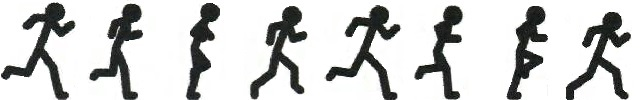
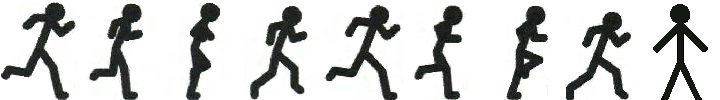
UI Upgrade, player move, jump, attack in process.

diff --git a/game/core/src/Sprites/stickman.java b/game/core/src/Sprites/stickman.java
@@ -1,0 +1,132 @@
+package Sprites;
+
+import com.badlogic.gdx.graphics.g2d.Animation;
+import com.badlogic.gdx.graphics.g2d.Sprite;
+import com.badlogic.gdx.graphics.g2d.TextureRegion;
+import com.badlogic.gdx.math.Vector2;
+import com.badlogic.gdx.physics.box2d.*;
+import com.badlogic.gdx.utils.Array;
+import com.mygdx.dungeoncoder.screens.TaskOne;
+import com.mygdx.dungeoncoder.screens.TaskThree;
+import com.mygdx.dungeoncoder.values.DefaultValues;
+
+public class stickman extends Sprite{
+    public enum State {RUNNING, FALLING, STANDING, ATTACKING};
+    public State currentState;
+    public State prevState;
+    public World world;
+    public Body b2body;
+    private TextureRegion stickmanStand;
+    private Animation <TextureRegion> stickmanRun;
+    private Animation <TextureRegion> stickmanJump;
+    public boolean runningRight;
+    private float stateTimer;
+
+    public stickman(World world, TaskOne screen){
+        super(screen.getAtlas().findRegion("stickman"));
+        this.world = world;
+        stateTimer = 0;
+        stickmanStand = new TextureRegion(getTexture(), 640, 0, 720, 100);
+        setRegion(stickmanStand);
+
+        Array<TextureRegion> frames = new Array<TextureRegion>();
+        for(int i = 1; i < 4; i++){
+            frames.add(new TextureRegion(getTexture(), i * 16 , 11,16,16));
+        }
+        //running animation
+        stickmanRun = new Animation(0.1f, frames);
+        frames.clear();
+
+        for(int i = 4; i < 6; i++){
+            frames.add(new TextureRegion(getTexture(), i * 16 , 11,16,16));
+        }
+        stickmanJump = new Animation(0.1f, frames);
+        frames.clear();
+
+        defineMario();
+
+        stickmanStand = new TextureRegion(getTexture(),1,11,16,16);
+        setBounds(0,0,16/DefaultValues.PPM,16/DefaultValues.PPM);
+        setRegion(stickmanStand);
+    }
+
+    public void update(float dt){
+        setPosition(b2body.getPosition().x - getWidth() / 2 , b2body.getPosition().y - getHeight() / 2);
+        setRegion(getFrame(dt));
+    }
+
+    public TextureRegion getFrame(float dt){
+        currentState = getState();
+        TextureRegion region;
+        switch(currentState){
+            case FALLING:
+                region = stickmanJump.getKeyFrame(stateTimer);
+                break;
+            case RUNNING:
+                region = stickmanRun.getKeyFrame(stateTimer,true);
+                break;
+            case STANDING:
+            default:
+                region = stickmanStand;
+                break;
+        }
+        //if hes running left and region isnt facing left
+        if((b2body.getLinearVelocity().x < 0 || !runningRight) && !region.isFlipX()){
+            region.flip(true,false);
+            runningRight = false;
+        }else if((b2body.getLinearVelocity().x > 0 || runningRight) && region.isFlipX()){
+            region.flip(true,false);
+            runningRight = true;
+        }
+        //if currentstate is equal to our previous state, then statetimer + dt else it will equal 0
+        stateTimer = currentState == prevState ? stateTimer + dt : 0;
+        prevState = currentState;
+        return region;
+    }
+
+    public State getState(){
+        if(b2body.getLinearVelocity().y > 0 || (b2body.getLinearVelocity().y < 0 && prevState == State.FALLING))
+            return State.FALLING;
+        else if(b2body.getLinearVelocity().y < 0) {
+            return State.FALLING;
+        }
+        else if(b2body.getLinearVelocity().x != 0) {
+            return State.RUNNING;
+        }
+        else {
+            return State.STANDING;
+        }
+    }
+
+    public void defineMario(){
+        BodyDef bdef = new BodyDef();
+        bdef.position.set(32/DefaultValues.PPM,32/DefaultValues.PPM);
+        bdef.type = BodyDef.BodyType.DynamicBody;
+        b2body = world.createBody(bdef);
+
+        FixtureDef fdef = new FixtureDef();
+        CircleShape shape = new CircleShape();
+        shape.setRadius(6/ DefaultValues.PPM);
+        fdef.filter.categoryBits = DefaultValues.MARIO_BIT;
+        //what can mario collide with
+        fdef.filter.maskBits = DefaultValues.GROUND_BIT |
+                DefaultValues.COIN_BIT |
+                DefaultValues.BRICK_BIT |
+                DefaultValues.ENEMY_BIT |
+                DefaultValues.OBJECT_BIT|
+                DefaultValues.ENEMY_HEAD_BIT; // | is or
+
+        fdef.shape = shape;
+        b2body.createFixture(fdef);
+
+        //create sensor on mario head
+        //edgeshape line between 2 diff points
+        EdgeShape head = new EdgeShape();
+        head.set(new Vector2(-2 / DefaultValues.PPM, 7 /DefaultValues.PPM), new Vector2(2 / DefaultValues.PPM, 7 /DefaultValues.PPM));
+        fdef.shape = head;
+        fdef.isSensor = true;
+
+        b2body.createFixture(fdef).setUserData("head");
+    }
+
+}

diff --git a/game/core/src/com/mygdx/dungeoncoder/screens/TaskOne.java b/game/core/src/com/mygdx/dungeoncoder/screens/TaskOne.java
@@ -63,16 +63,12 @@ public class TaskOne extends ApplicationAdapter implements Screen {
     private World world;
     private OrthographicCamera box2DCamera;
     private Box2DDebugRenderer debugRenderer;
-    private int posX = 0;
-    private int posY = 0;
-    SpriteBatch p1;
     Texture pic1;
     Sprite test;
 
     private TextureAtlas stickman;
 
     public TaskOne(DungeonCoder g) {
-        p1 = new SpriteBatch();
         pic1 = new Texture("stationaryninja.png");
         game = g;
         box2DCamera = new OrthographicCamera();
@@ -364,18 +360,6 @@ public class TaskOne extends ApplicationAdapter implements Screen {
         stage.draw();
         stage.act(delta);
         //begin walk
-        if (Gdx.input.isKeyPressed(Input.Keys.UP)){
-            posY = posY + 4;
-        } else if (Gdx.input.isKeyPressed(Input.Keys.DOWN)){
-            posY = posY - 4;
-        } else if (Gdx.input.isKeyPressed(Input.Keys.LEFT)){
-            posX = posX - 4;
-        } else if (Gdx.input.isKeyPressed(Input.Keys.RIGHT)) {
-            posX = posX + 4;
-        }
-        p1.begin();
-        p1.draw(pic1, posX, posY);
-        p1.end();
 
         if(paused){
             walkingBatch.begin();
@@ -419,15 +403,14 @@ public class TaskOne extends ApplicationAdapter implements Screen {
     @Override
     public void dispose() {
         stage.dispose();
-        //ninjaAtlas.dispose();
-        //walkingAtlas.dispose();
+        ninjaAtlas.dispose();
+        walkingAtlas.dispose();
         backButtonSkin.dispose();
         backgroundBatch.dispose();
-        //walkingBatch.dispose();
-        //skin.dispose();
+        walkingBatch.dispose();
+        skin.dispose();
         bg.dispose();
         world.dispose();
-        p1.dispose();
         pic1.dispose();
         player.getTexture().dispose();
     }

diff --git a/game/core/src/com/mygdx/dungeoncoder/utils/Ping.java b/game/core/src/com/mygdx/dungeoncoder/utils/Ping.java
@@ -1,4 +1,4 @@
-import com.mygdx.dungeoncoder.screens.shareVariable;
+/*import com.mygdx.dungeoncoder.screens.shareVariable;
 
 public class Ping extends Thread {
 
@@ -18,3 +18,4 @@ public class Ping extends Thread {
 		ping();
 	}
 }
+*/
